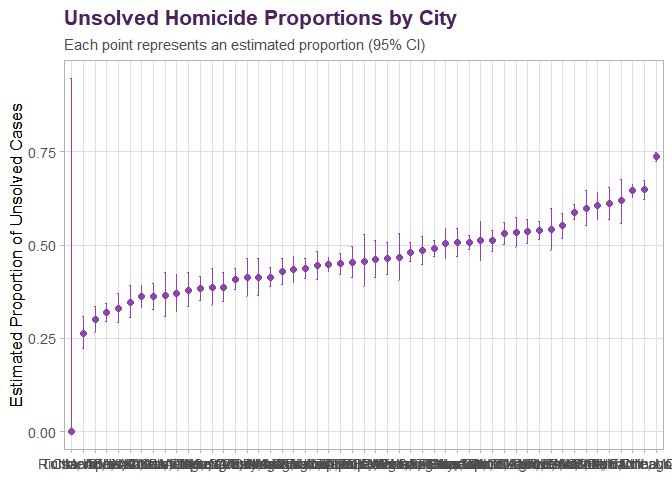
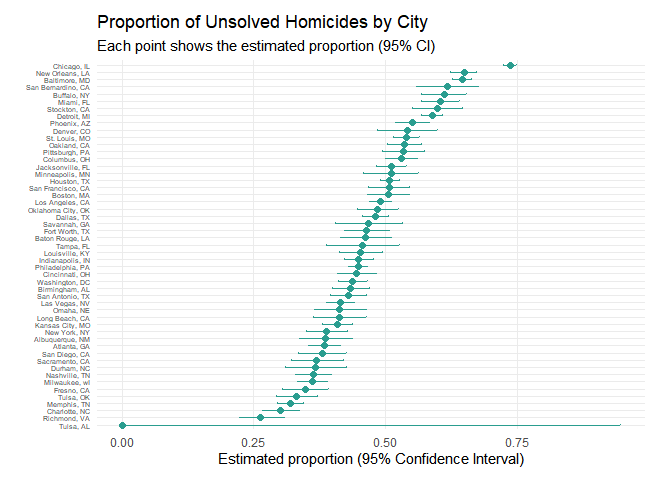
plot adjustment

diff --git a/p8105_hw5_jj3564.md b/p8105_hw5_jj3564.md
@@ -209,24 +209,24 @@ city_results <- city_stats %>%
 ``` r
 #  4. Plot unsolved homicide proportions 
 city_results %>%
-  arrange(desc(estimate)) %>%
+  arrange(estimate) %>%
   mutate(city_state = fct_reorder(city_state, estimate)) %>%
-  ggplot(aes(estimate, city_state)) +
-  geom_point(color = "#8E44AD", size = 2.2) +
-  geom_errorbar(aes(xmin = conf.low, xmax = conf.high), color = "#8E44AD", width = 0.15) +
+  ggplot(aes(y = city_state, x = estimate)) +
+  geom_point(color = "#2A9D8F", size = 2.3) +
+  geom_errorbarh(aes(xmin = conf.low, xmax = conf.high), color = "#2A9D8F", height = 0.2) +
   labs(
-    title = "Unsolved Homicide Proportions by City",
-    subtitle = "Each point represents an estimated proportion (95% CI)",
-    x = "Estimated Proportion of Unsolved Cases",
+    title = "Proportion of Unsolved Homicides by City",
+    subtitle = "Each point shows the estimated proportion (95% CI)",
+    x = "Estimated proportion (95% Confidence Interval)",
     y = NULL
   ) +
-  theme_light(base_size = 13) +
-  theme(
-    plot.title = element_text(face = "bold", color = "#4A235A"),
-    plot.subtitle = element_text(size = 11, color = "gray30"),
-    panel.grid.minor = element_blank()
-  ) +
-  coord_flip()
+  theme_minimal(base_size = 11) +
+theme(
+  axis.text.y = element_text(size = 5, family = "sans"),
+  axis.text.x = element_text(size = 9),
+  panel.grid.minor = element_blank(),
+  plot.margin = margin(10, 20, 10, 20)
+)
 ```
 
 ![](p8105_hw5_jj3564_files/figure-gfm/unnamed-chunk-3-1.png)<!-- -->
